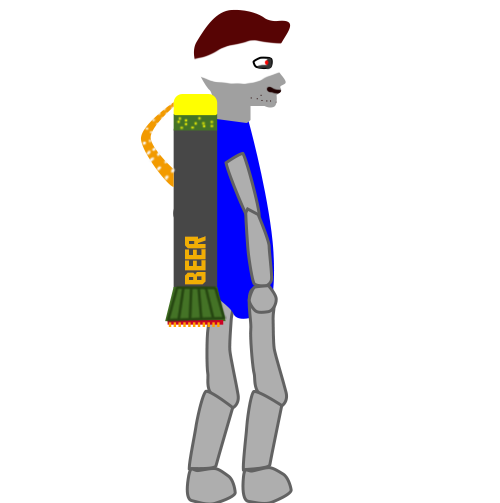
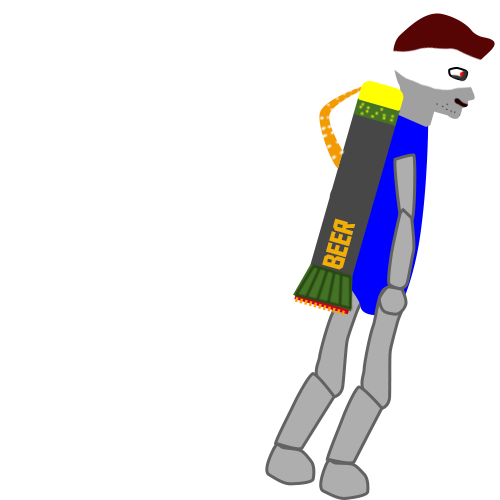
Add fly

diff --git a/games/BeerFlight/game_screen.py b/games/BeerFlight/game_screen.py
@@ -44,7 +44,7 @@ class Hero(pygame.sprite.Sprite):
         self.mask.fill()
         self.x, self.y = self.rect.x, self.rect.y
 
-        self.dx, self.dy = 2, 0
+        self.dx, self.dy = 5, 0
 
     def cut_sheet(self, sheet, columns, rows):
         frames = []
@@ -68,7 +68,7 @@ class Hero(pygame.sprite.Sprite):
             self.game_screen.default_tiles_group
         )
 
-        self.dy += (9.8 * self.game_screen.PPM) / self.game_screen.setup.FPS
+        self.dy += (6 * self.game_screen.PPM) / self.game_screen.setup.FPS
 
 
 class GameScreen:
@@ -149,11 +149,18 @@ class GameScreen:
         hero_group.add(hero)
 
         background = operations.load_image(self.level['background'])
+        space_clicked = pygame.key.get_pressed()[pygame.K_SPACE]
         while True:
             operations.draw_background(self.setup.screen, background)
             for event in pygame.event.get():
                 if event.type == pygame.QUIT:
                     setup.operations.terminate()
+                if event.type in (pygame.KEYDOWN, pygame.KEYUP):
+                    if event.key == pygame.K_SPACE:
+                        space_clicked = not space_clicked
+            if space_clicked:
+                hero.dy -= self.PPM * 9 / self.setup.FPS
+                hero.sheet_state = 1
             hero.update()
             camera.update(hero, self)
             for tile in self.tiles_group:

diff --git a/games/BeerFlight/level_screen.py b/games/BeerFlight/level_screen.py
@@ -108,13 +108,13 @@ class LevelTitle(pygame.sprite.Sprite):
                  self.level_screen.setup.width * (self.num - self.level_screen.cur_level_num)
 
         if move_x - self.rect.x > 0:
-            self.x += 1000 / self.level_screen.setup.FPS
+            self.x += 4000 / self.level_screen.setup.FPS
             if self.level_screen.setup.width // 2 - self.rect.width // 2 + \
                     self.level_screen.setup.width * (self.num - self.level_screen.cur_level_num) - self.x < 0:
                 self.x = self.level_screen.setup.width // 2 - self.rect.width // 2 + \
                          self.level_screen.setup.width * (self.num - self.level_screen.cur_level_num)
         elif move_x - self.rect.x < 0:
-            self.x -= 1000 / self.level_screen.setup.FPS
+            self.x -= 4000 / self.level_screen.setup.FPS
             if self.level_screen.setup.width // 2 - self.rect.width // 2 + \
                     self.level_screen.setup.width * (self.num - self.level_screen.cur_level_num) - self.x > 0:
                 self.x = self.level_screen.setup.width // 2 - self.rect.width // 2 + \

diff --git a/games/BeerFlight/operations.py b/games/BeerFlight/operations.py
@@ -82,6 +82,8 @@ def move_sprite(sprite: pygame.sprite.Sprite, d_coords, screen: pygame.surface.S
         sprite.rect.y = int(sprite.y - dy)
         if not check_collide(sprite, screen, *collide_groups):
             sprite.y -= dy
+            if dy > 0:
+                sprite.sheet_state = 0
             sprite.rect.y = int(sprite.y)
             sprite.dy = 0
             sprite.rect.x = int(sprite.x + dx)
